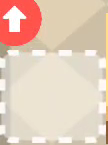
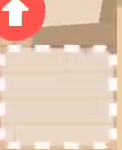
Ajustes coleta de template, e templates ajustados.

diff --git a/src/main.py b/src/main.py
@@ -391,7 +391,10 @@ def main(argv=None):
 
     detector = Detector(
         use_defaults=not args.layout_only,
-        learn_only_actions=not args.layout_only,
+        # O aprendizado de override por resolução não depende da coleta
+        # do dataset: ele deve continuar sempre que uma detecção válida
+        # aparecer, mesmo sem o modo de IA-collect ligado.
+        learn_only_actions=False,
     )
 
     vision = VisionWorker(detector)

diff --git a/src/core/config.py b/src/core/config.py
@@ -307,7 +307,7 @@ SWIPE_DURATION_MS = 500
 
 # ==== VISION ====
 
-VISION_INTERVAL = 0.1
+VISION_INTERVAL = 0.2
 VISION_FILTER_BY_STATE = True
 VISION_PRIORITY_STOP = True
 MAX_DETECTION_AGE = 3.0
